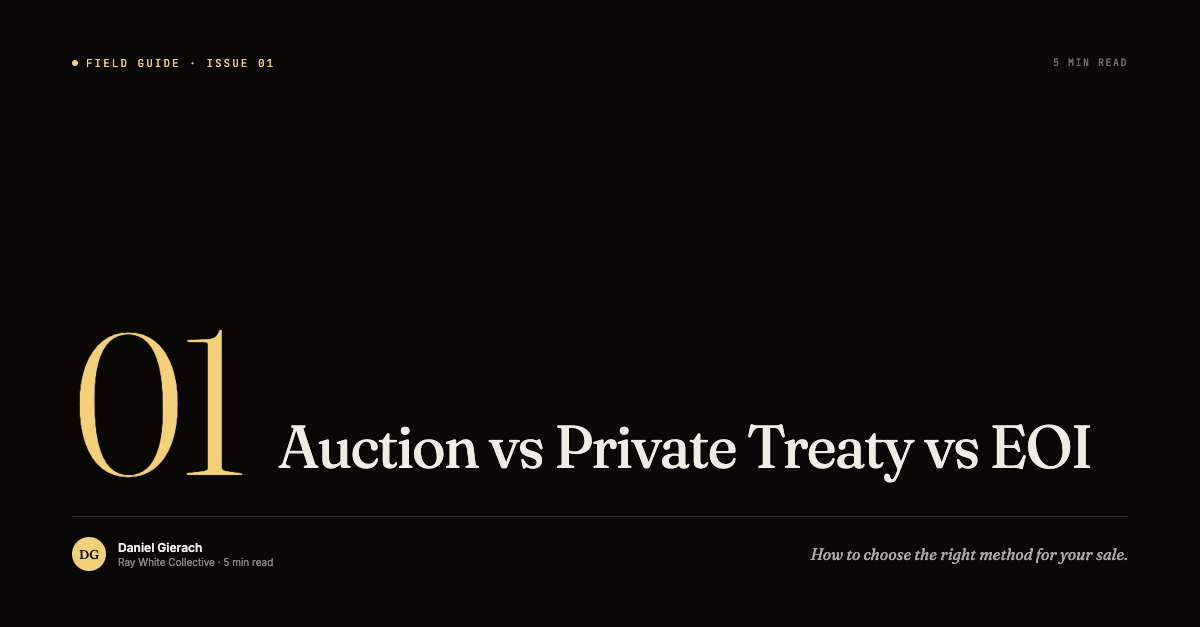
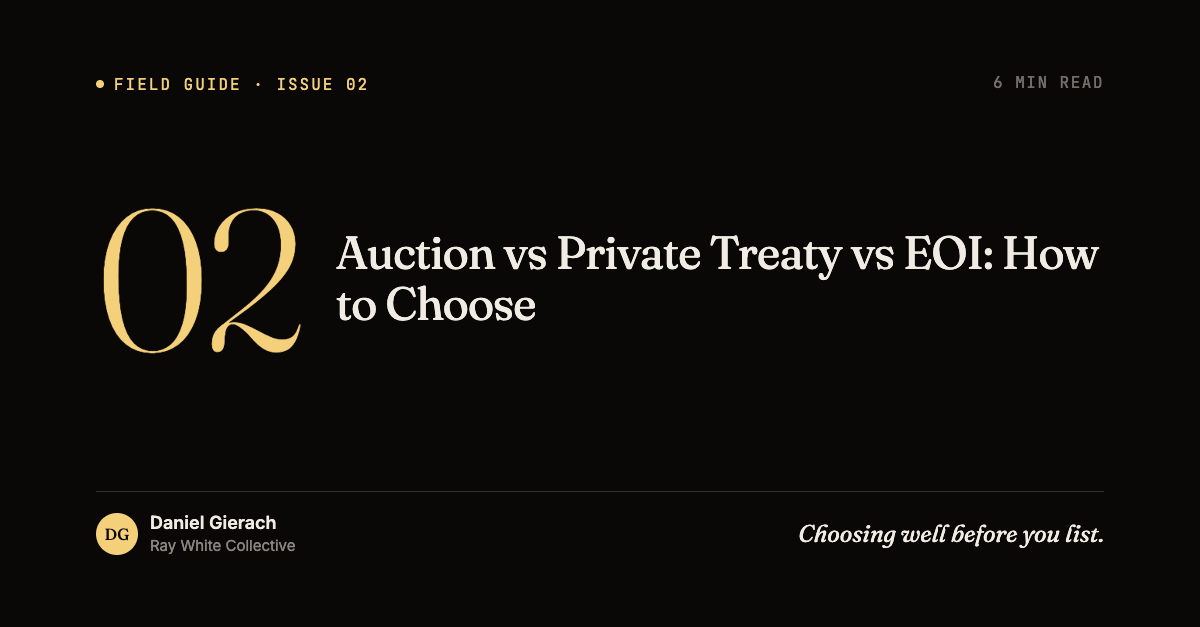
social: generate template visuals for next two weeks, remove Canva
Apr 23 — Field Guide Issue 02: Auction vs Private Treaty vs EOI
Apr 28 — Inner East: What Buyers Actually Make Offers On
Apr 30 — Field Guide Issue 03: Solicitor vs Conveyancer in Queensland

All three generated via screenshot-linkedin.mjs (article-cover / market templates).
Canva URLs and Canva Thumbnail fields removed. Status set to scheduled.
Sync hook will upload PNGs to Supabase Storage and update visual_thumbnail.

diff --git a/content/social/2026-04-30-linkedin-article-solicitor-vs-conveyancer.md b/content/social/2026-04-30-linkedin-article-solicitor-vs-conveyancer.md
@@ -4,12 +4,12 @@
 **Format:** Post
 **Goal:** Drive traffic to danielgierach.com/insights; position Daniel as an informed guide for buyers and sellers navigating the process.
 **Content Pillar:** buyer
-**Status:** archived
+**Status:** scheduled
 **Publish date:** 2026-04-30
 **Scheduled time:** 07:30
-**Visual status:** Draft
-**Canva URL:** https://www.canva.com/d/CcwzH6z-NqOOVPE
-**Canva Thumbnail:** https://design-manipulation-download.canva.com/b2337304-b622-4f00-b115-df31aa5e62e8/0000-7393158977962770648.png
+**Visual status:** Ready
+**Image:** content/social/images/2026-04-30-article-cover.png
+**Series:** Field Guide Issue 03
 
 ---
 

diff --git a/content/social/2026-04-28-linkedin-inner-east-open-home-buyers.md b/content/social/2026-04-28-linkedin-inner-east-open-home-buyers.md
@@ -4,12 +4,11 @@
 **Format:** Post
 **Goal:** Build Daniel's authority as the agent who genuinely understands inner east buyer behaviour. Prompt sellers to think about their preparation differently.
 **Content Pillar:** authority
-**Status:** archived
+**Status:** scheduled
 **Publish date:** 2026-04-28
 **Scheduled time:** 07:30
-**Visual status:** Draft
-**Canva URL:** https://www.canva.com/d/ZNfZ5KYi16LXAqj
-**Canva Thumbnail:** https://design-manipulation-download.canva.com/04b66faf-adfb-4be1-ad67-f6c12dbbada4/0000-3913002367119826668.png
+**Visual status:** Ready
+**Image:** content/social/images/2026-04-28-linkedin-market.png
 
 ---
 

diff --git a/content/social/2026-04-23-linkedin-article-auction-vs-private-treaty.md b/content/social/2026-04-23-linkedin-article-auction-vs-private-treaty.md
@@ -4,12 +4,11 @@
 **Format:** Post
 **Goal:** Drive traffic to danielgierach.com/insights; position Daniel as a trusted strategic adviser for Brisbane sellers
 **Content Pillar:** seller
-**Status:** archived
+**Status:** scheduled
 **Publish date:** 2026-04-23
 **Scheduled time:** 07:30
 **Visual status:** Ready
 **Image:** content/social/images/2026-04-23-article-cover.png
-**Canva Thumbnail:** https://hmwulvvwsksuyqozuxvw.supabase.co/storage/v1/object/public/social-images/2026-04-23-article-cover.png
 **Series:** Field Guide Issue 02
 
 ---
